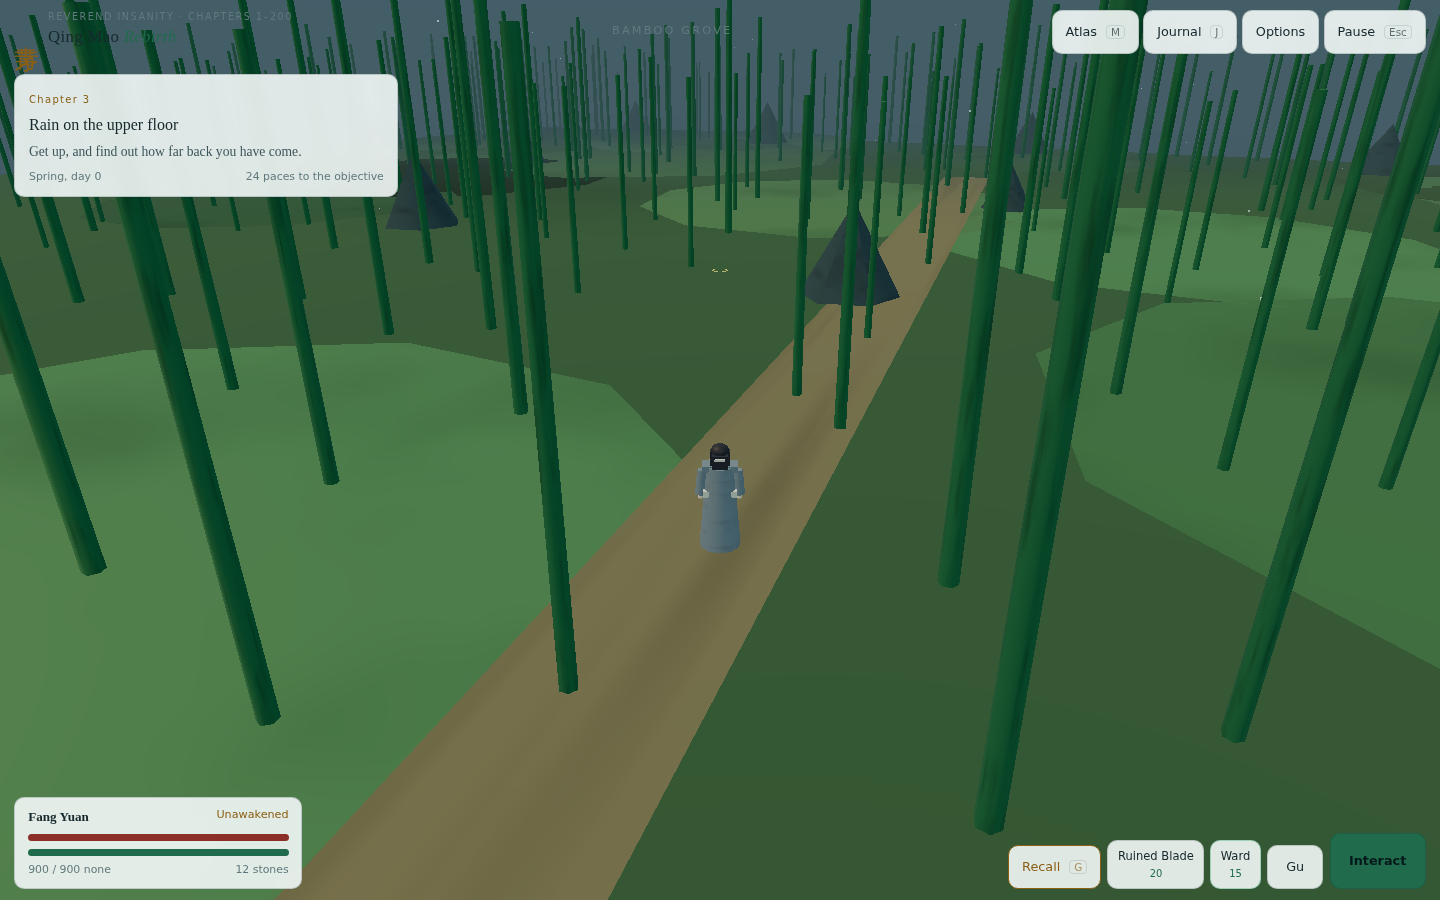
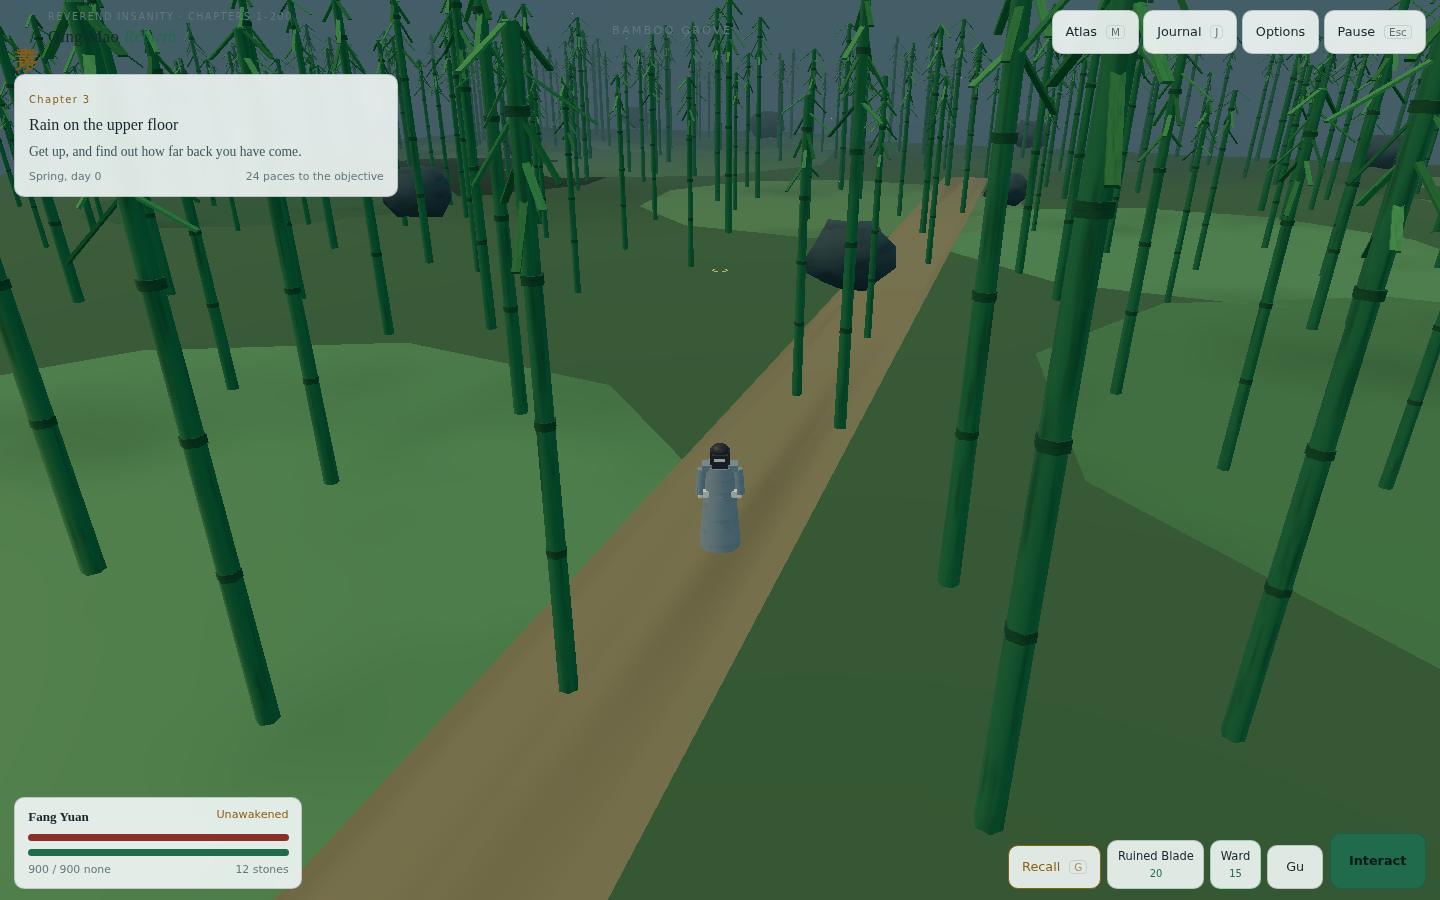
Make the trees trees and the bamboo bamboo
The materials pass showed up the geometry underneath it: a bamboo grove was two
hundred and forty bare tapered cylinders, an area named after its bamboo with no
leaf anywhere in it. A tree was one cone with no trunk, floating on the grass. A
rock was a six-sided cone, which reads as a tent.

- Bamboo culms get the segment rings that make them read as bamboo even in
  silhouette, and ten small drooping blades around the top third. The first
  attempt hung seven planks a metre and a half long off each one and looked like
  green shelving from anywhere near the camera.
- Trees get a trunk and three offset canopy tiers at different radii, rotations
  and greens, so a crown rather than a traffic cone. Pines get four tighter,
  darker tiers.
- Rocks are lumpy asymmetric boulders, pushed around by a fixed hash so they are
  identical on every device, and flattened so they sit into the ground.

All of it merges into the geometry the instanced meshes already draw, so the
draw calls did not move at all: the village stayed at 137 and the grove at 45,
against a low-tier budget of 150. Triangles went from 10k to 102k in the grove,
which is 41% of the 250k that tier allows and the cheap half of the budget.

Parts keep their UVs when merged. `villagerGeometry` deletes them before
merging, which cost nothing when materials were flat colours, but a part with no
UVs samples a single texel of the new grain and normal maps forever.
[…]

diff --git a/engine/render/world.ts b/engine/render/world.ts
@@ -11,7 +11,7 @@
  */
 import {
   BoxGeometry, BufferAttribute, CircleGeometry, Color, ConeGeometry, CylinderGeometry, DoubleSide,
-  Group, InstancedMesh, Matrix4, Mesh, MeshBasicMaterial,
+  Group, InstancedMesh, Matrix4, Mesh, MeshBasicMaterial, SphereGeometry,
   PlaneGeometry, Quaternion, RingGeometry, Vector3, type BufferGeometry, type Material
 } from 'three';
 import { surface, type Surface, type SurfaceOptions } from './surfaces';
@@ -110,9 +110,9 @@ const PALETTE = {
 function propGeometry(kind: PropKind): { geometry: BufferGeometry; material: Material; blocker?: Blocker } {
   switch (kind) {
     // Qing Mao's bamboo is straight with a spear-sharp tip, per the source text.
-    case 'bamboo': return { geometry: new CylinderGeometry(0.12, 0.16, 9, 6), material: mat('foliage', PALETTE.bamboo), blocker: { x: 0, z: 0, w: 0.3, d: 0.3 } };
-    case 'rock': return { geometry: new ConeGeometry(1.9, 3.4, 6), material: mat('stone', PALETTE.rock), blocker: { x: 0, z: 0, w: 1.4, d: 1.4 } };
-    case 'tree': return { geometry: new ConeGeometry(3.1, 7.2, 7), material: mat('foliage', PALETTE.leaf), blocker: { x: 0, z: 0, w: 1, d: 1 } };
+    case 'bamboo': return { geometry: bambooGeometry(), material: surface('foliage', 0xffffff, { vertexColors: true }), blocker: { x: 0, z: 0, w: 0.3, d: 0.3 } };
+    case 'rock': return { geometry: rockGeometry(), material: mat('stone', PALETTE.rock), blocker: { x: 0, z: 0, w: 1.4, d: 1.4 } };
+    case 'tree': return { geometry: treeGeometry(), material: surface('foliage', 0xffffff, { vertexColors: true }), blocker: { x: 0, z: 0, w: 1, d: 1 } };
     // Not a cone. A pale seven-sided cone at 1.9 tall is fine as a distant crowd and
     // looks like a traffic cone the moment the camera is in the same room as one — on
     // a phone, where interiors put the camera close, the hall and the tavern each had
@@ -151,7 +151,7 @@ function propGeometry(kind: PropKind): { geometry: BufferGeometry; material: Mat
     // Ice is the smoothest thing in the game, so it is the one surface that visibly
     // mirrors the sky now that there is a sky to mirror.
     case 'icespike': return { geometry: new ConeGeometry(1.1, 6.5, 5), material: mat('stone', 0xa9cfdb, { roughness: 0.09, metalness: 0.05 }), blocker: { x: 0, z: 0, w: 0.9, d: 0.9 } };
-    case 'pine': return { geometry: new ConeGeometry(2.3, 6.5, 7), material: mat('foliage', 0x1f3a30), blocker: { x: 0, z: 0, w: 0.9, d: 0.9 } };
+    case 'pine': return { geometry: pineGeometry(), material: surface('foliage', 0xffffff, { vertexColors: true }), blocker: { x: 0, z: 0, w: 0.9, d: 0.9 } };
     // --- cultivation and water
     case 'terrace': return { geometry: new BoxGeometry(11, 0.5, 3.4), material: mat('earth', 0x4a5a34), blocker: { x: 0, z: 0, w: 5.5, d: 1.7 } };
     case 'reed': return { geometry: new CylinderGeometry(0.05, 0.07, 2.4, 4), material: mat('foliage', 0x6d7a3e) };
@@ -394,6 +394,121 @@ export function buildArea(description: AreaDescription, budget: { instanceBudget
   }
 
   return { group: root, chunks, blockers, lanterns };
+}
+
+/**
+ * Colours a part's vertices without throwing away its UVs.
+ *
+ * `villagerGeometry` deletes `uv` before merging, which was fine when materials were
+ * flat colours. The surfaces have grain and normal maps now, and a part with no UVs
+ * samples one texel of them forever — so anything that wants to look like a material
+ * has to keep them.
+ */
+function tinted(geometry: BufferGeometry, hex: number): BufferGeometry {
+  const colour = new Color(hex);
+  const count = geometry.attributes['position']!.count;
+  const colours = new Float32Array(count * 3);
+  for (let i = 0; i < count; i++) colours.set([colour.r, colour.g, colour.b], i * 3);
+  geometry.setAttribute('color', new BufferAttribute(colours, 3));
+  return geometry;
+}
+
+/**
+ * A bamboo culm with nodes and a head of leaves.
+ *
+ * It was a bare tapered cylinder, and a grove of two hundred and forty of them read as
+ * a field of green poles — no leaves anywhere in an area named after the grove. The
+ * leaves are flat blades rather than modelled foliage, which is the whole trick: they
+ * cost a dozen triangles each, they merge into the same geometry, and the grove is
+ * still one instanced draw call.
+ */
+function bambooGeometry(): BufferGeometry {
+  const parts: BufferGeometry[] = [tinted(new CylinderGeometry(0.11, 0.16, 9, 6), PALETTE.bamboo)];
+  // Nodes: the rings a bamboo is segmented by, and the cue that reads as bamboo
+  // rather than as a pole, even in silhouette.
+  for (let i = 0; i < 5; i++) {
+    const ring = new CylinderGeometry(0.155, 0.155, 0.12, 6);
+    ring.translate(0, -4 + i * 1.9, 0);
+    parts.push(tinted(ring, 0x2c5c3c));
+  }
+  // Blades, splayed around the top third and drooping. Smaller and more numerous than
+  // the first attempt, which hung seven planks a metre and a half long off each culm
+  // and read as green shelving from anywhere near the camera.
+  for (let i = 0; i < 10; i++) {
+    const angle = (i / 10) * Math.PI * 2 + 0.4;
+    const length = 0.72 + (i % 3) * 0.16;
+    const blade = new BoxGeometry(length, 0.03, 0.1);
+    blade.translate(length * 0.55, 0, 0);
+    blade.rotateZ(-0.62 - (i % 4) * 0.14);
+    blade.rotateY(angle);
+    blade.translate(0, 2.7 + (i % 5) * 0.46, 0);
+    parts.push(tinted(blade, i % 2 === 0 ? 0x4c8b52 : 0x3b7444));
+  }
+  return mergeGeometries(parts, false) ?? parts[0]!;
+}
+
+/**
+ * A broadleaf tree: a trunk and three offset canopy tiers.
+ *
+ * One cone is a traffic cone. Three overlapping tiers at different radii, rotations
+ * and greens read as a crown, and the trunk underneath is what makes it a tree rather
+ * than a bush — the previous version had no trunk at all and floated on the grass.
+ */
+function treeGeometry(): BufferGeometry {
+  const parts: BufferGeometry[] = [];
+  const trunk = new CylinderGeometry(0.34, 0.5, 3.2, 6);
+  trunk.translate(0, -2.4, 0);
+  parts.push(tinted(trunk, 0x4a3524));
+  const tiers: [number, number, number, number][] = [
+    [3.1, 2.9, -0.9, 0x2f6b45],
+    [2.5, 2.6, 0.9, 0x35774b],
+    [1.6, 2.2, 2.6, 0x3f8654]
+  ];
+  for (const [radius, height, y, hex] of tiers) {
+    const tier = new ConeGeometry(radius, height, 7);
+    tier.rotateY(y);
+    tier.translate(0, y, 0);
+    parts.push(tinted(tier, hex));
+  }
+  return mergeGeometries(parts, false) ?? parts[0]!;
+}
+
+/** The winter version: a bare trunk and four tight, dark tiers. */
+function pineGeometry(): BufferGeometry {
+  const parts: BufferGeometry[] = [];
+  const trunk = new CylinderGeometry(0.26, 0.38, 2.4, 6);
+  trunk.translate(0, -2.6, 0);
+  parts.push(tinted(trunk, 0x3a2b20));
+  for (let i = 0; i < 4; i++) {
+    const tier = new ConeGeometry(2.4 - i * 0.5, 2.4, 7);
+    tier.rotateY(i * 0.8);
+    tier.translate(0, -1.4 + i * 1.5, 0);
+    parts.push(tinted(tier, i % 2 === 0 ? 0x1f3a30 : 0x244539));
+  }
+  return mergeGeometries(parts, false) ?? parts[0]!;
+}
+
+/**
+ * A boulder rather than a cone.
+ *
+ * A six-sided cone reads as a tent. This is a low sphere with its vertices pushed
+ * around by a fixed hash, so it is lumpy and asymmetric like a rock and identical on
+ * every device and every run.
+ */
+function rockGeometry(): BufferGeometry {
+  const geometry = new SphereGeometry(1.7, 7, 5);
+  const position = geometry.attributes['position'] as BufferAttribute;
+  for (let i = 0; i < position.count; i++) {
+    const x = position.getX(i);
+    const y = position.getY(i);
+    const z = position.getZ(i);
+    const n = Math.sin(x * 3.1 + 1.7) * Math.cos(z * 2.7 - 0.6) * Math.sin(y * 2.2 + 2.4);
+    const push = 1 + n * 0.26;
+    // Flattened: a boulder sits into the ground rather than balancing on it.
+    position.setXYZ(i, x * push, y * push * 0.72 - 0.2, z * push);
+  }
+  geometry.computeVertexNormals();
+  return geometry;
 }
 
 /**
